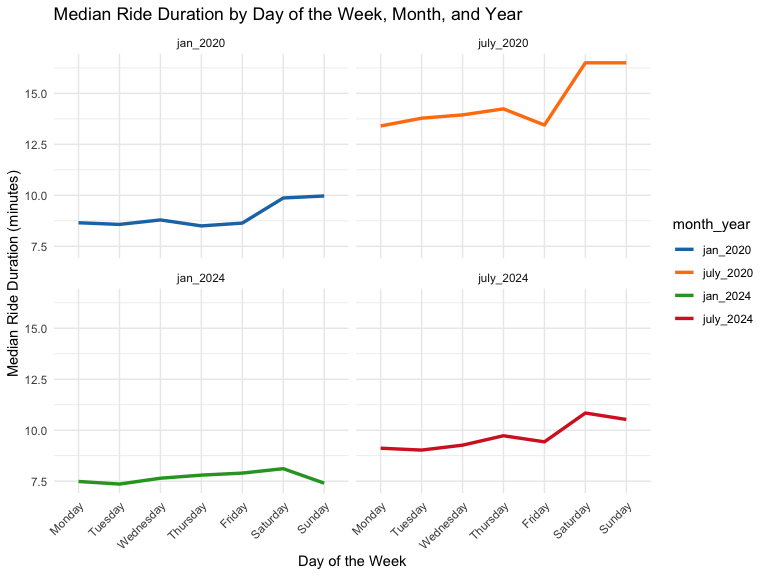
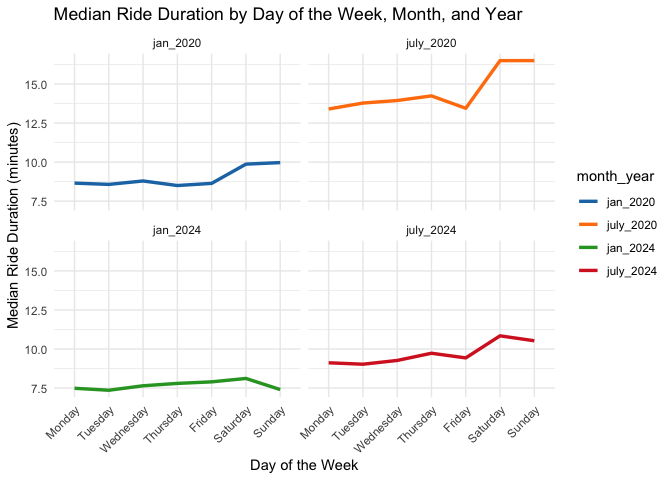
Final Version

diff --git a/p8105_hw3_zz3166.md b/p8105_hw3_zz3166.md
@@ -45,26 +45,6 @@ library(kableExtra)
     ## 
     ##     group_rows
 
-``` r
-knitr::opts_chunk$set(
-    echo = TRUE,
-    warning = FALSE,
-    fig.width = 8, 
-  fig.height = 6,
-  out.width = "90%"
-)
-
-theme_set(theme_minimal() + theme(legend.position = "bottom"))
-
-options(
-  ggplot2.continuous.colour = "viridis",
-  ggplot2.continuous.fill = "viridis"
-)
-
-scale_colour_discrete = scale_colour_viridis_d
-scale_fill_discrete = scale_fill_viridis_d
-```
-
 # Problem 2
 
 Accelerometers provide an objective method to study physical activity in
@@ -177,7 +157,7 @@ ggplot(merged_data, aes(x = education, y = age, fill = sex)) +
   scale_fill_manual(values = c("male" = "#e7d400", "female" = "#5e3c99")) # Optional: Add custom colors for clarity
 ```
 
-<img src="p8105_hw3_zz3166_files/figure-gfm/unnamed-chunk-4-1.png" width="90%" />
+![](p8105_hw3_zz3166_files/figure-gfm/unnamed-chunk-4-1.png)<!-- -->
 
 **Commentary**: The boxplot shows that participants with less education
 (“Less than high school”) tend to be older, with both men and women
@@ -213,7 +193,7 @@ ggplot(total_activity_data, aes(x = age, y = total_activity, color = sex)) +
 
     ## `geom_smooth()` using formula = 'y ~ x'
 
-<img src="p8105_hw3_zz3166_files/figure-gfm/unnamed-chunk-5-1.png" width="90%" />
+![](p8105_hw3_zz3166_files/figure-gfm/unnamed-chunk-5-1.png)<!-- -->
 
 **Commentary**: The plot shows that total activity decreases with age
 across all education levels for both men and women. The trend is more
@@ -247,7 +227,7 @@ ggplot(time_course_data, aes(x = minute, y = MIMS_value, color = sex)) +
 
     ## `geom_smooth()` using method = 'gam' and formula = 'y ~ s(x, bs = "cs")'
 
-<img src="p8105_hw3_zz3166_files/figure-gfm/unnamed-chunk-6-1.png" width="90%" />
+![](p8105_hw3_zz3166_files/figure-gfm/unnamed-chunk-6-1.png)<!-- -->
 
 **Commentary**: The plot shows similar 24-hour activity patterns for men
 and women across all education levels, with peaks during the day and
@@ -547,7 +527,13 @@ ggplot(median_duration, aes(x = weekdays, y = median_duration, color = month_yea
                                 "jan_2024" = "#2ca02c", "july_2024" = "#d62728"))  # Custom colors for each month_year
 ```
 
-<img src="p8105_hw3_zz3166_files/figure-gfm/unnamed-chunk-11-1.png" width="90%" />
+    ## Warning: Using `size` aesthetic for lines was deprecated in ggplot2 3.4.0.
+    ## ℹ Please use `linewidth` instead.
+    ## This warning is displayed once every 8 hours.
+    ## Call `lifecycle::last_lifecycle_warnings()` to see where this warning was
+    ## generated.
+
+![](p8105_hw3_zz3166_files/figure-gfm/unnamed-chunk-11-1.png)<!-- -->
 
 The plot shows that **July 2020** had longer median ride durations
 across all days of the week compared to **January 2020** and **January
@@ -577,7 +563,7 @@ ggplot(citi_2024_data, aes(x = duration, fill = member_casual)) +
   theme(axis.text.x = element_text(angle = 45, hjust = 1))  # Rotate x-axis labels for clarity
 ```
 
-<img src="p8105_hw3_zz3166_files/figure-gfm/unnamed-chunk-12-1.png" width="90%" />
+![](p8105_hw3_zz3166_files/figure-gfm/unnamed-chunk-12-1.png)<!-- -->
 
 The density plot for **2024** highlights several key patterns in ride
 durations based on membership status, bike type, and seasonality.
